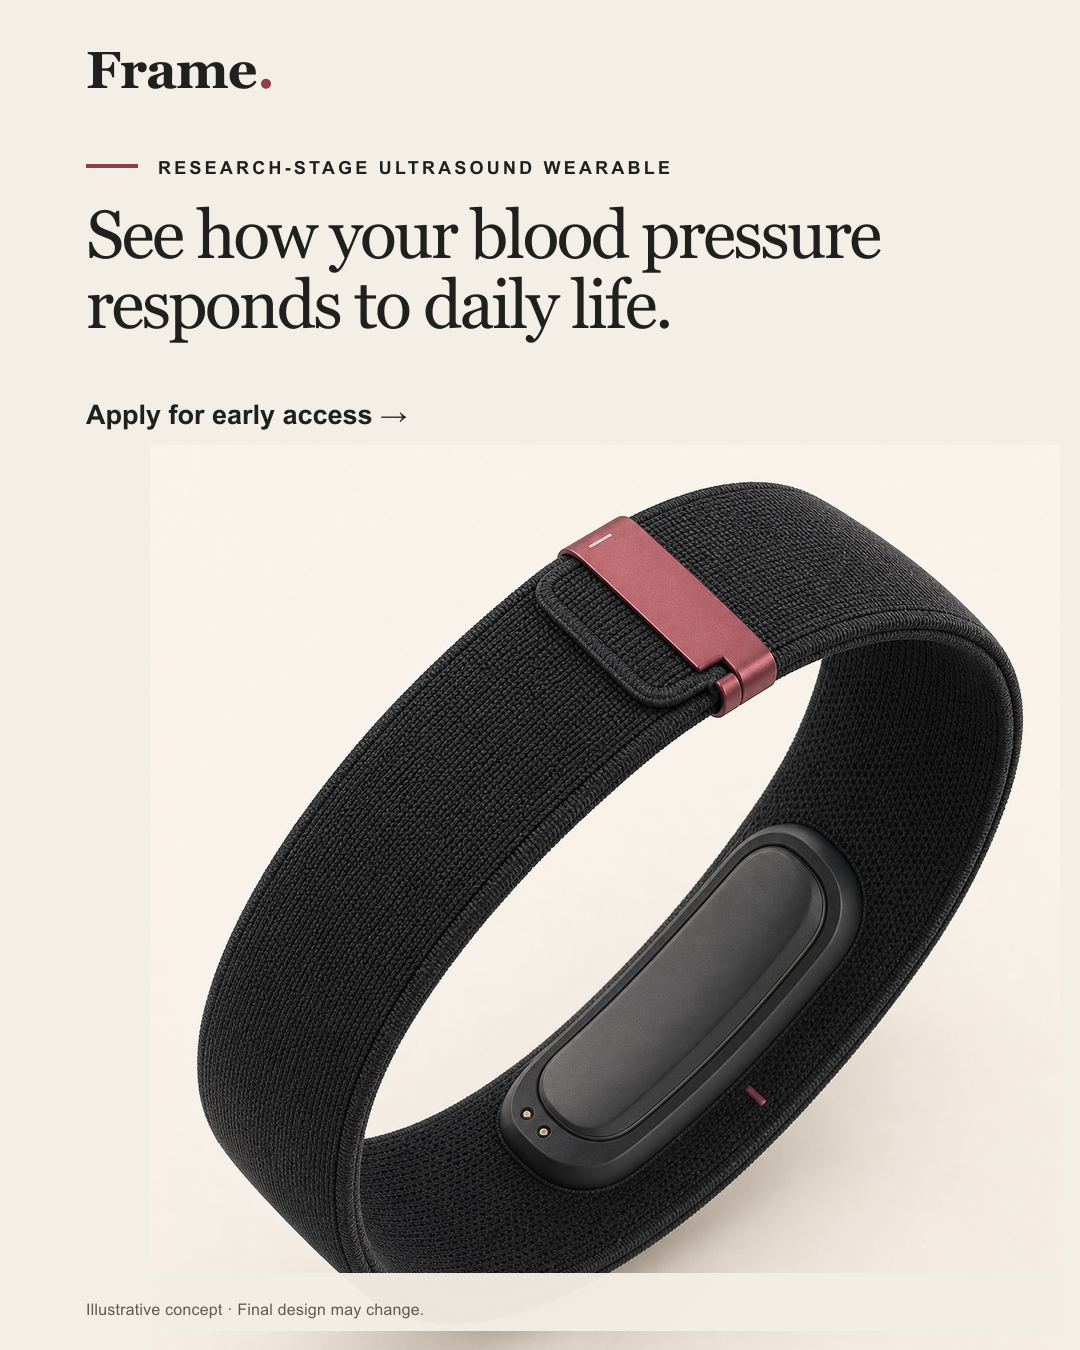
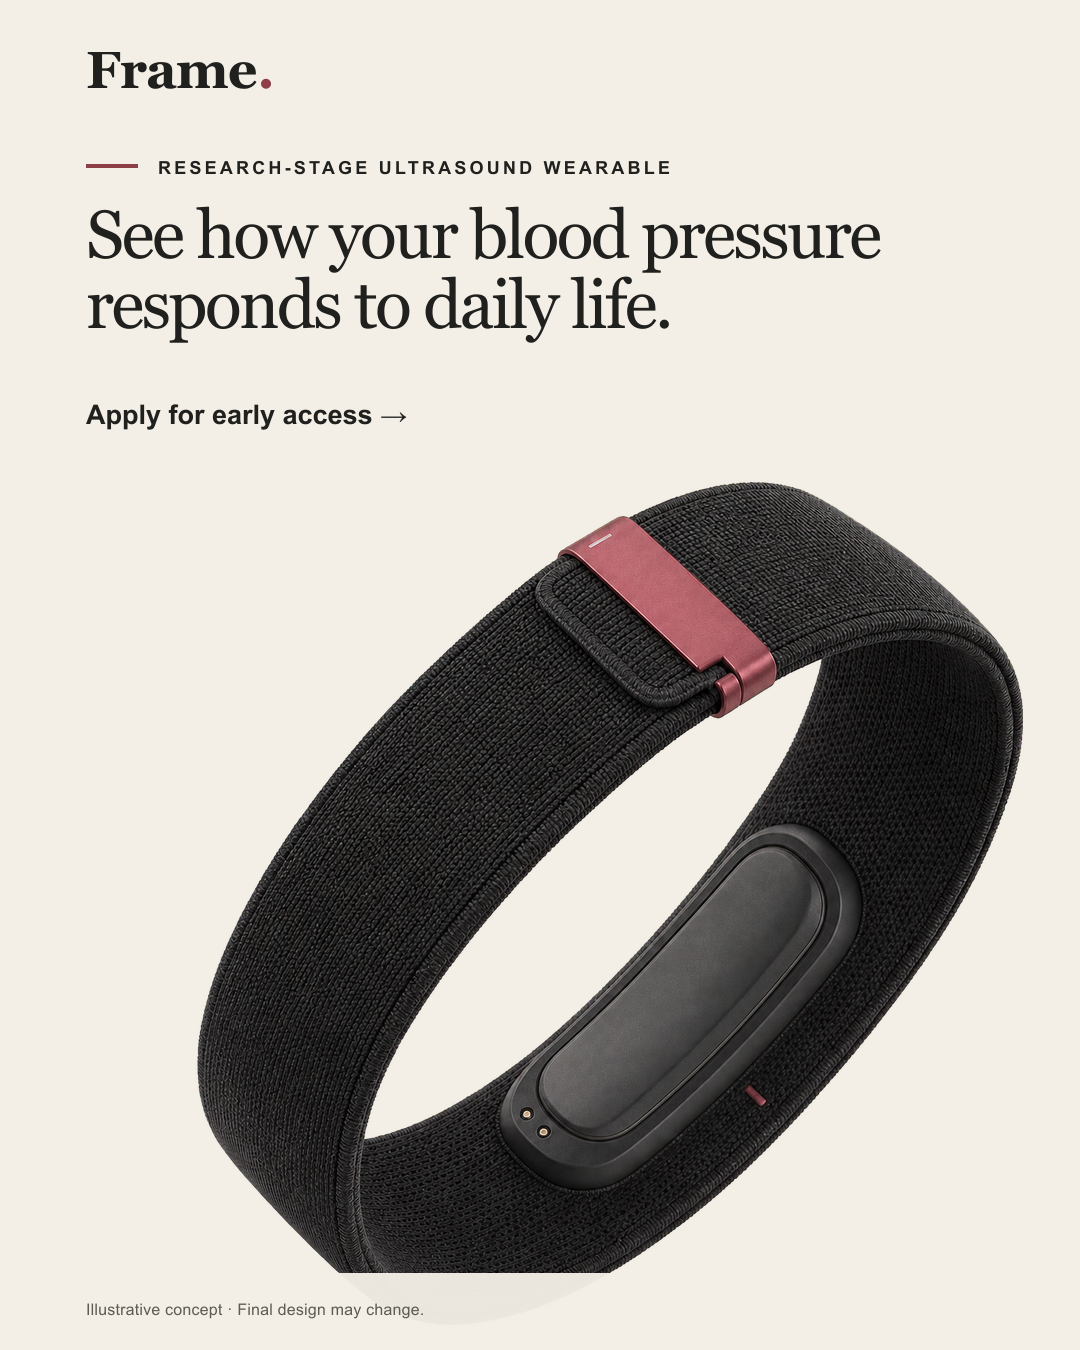
Use transparent Frame product cutout

diff --git a/app/page.tsx b/app/page.tsx
@@ -533,7 +533,7 @@ export default function Home() {
           </div>
           <figure className="hero-image image-frame">
             <Image
-              src="/frame-product-concept-realistic-v2.png"
+              src="/frame-product-concept-realistic-v3-transparent.png"
               alt="Refined Frame upper-arm wearable concept with an adjustable charcoal knit band, burgundy clasp, and integrated ultrasound sensor"
               className="cover-image"
               fill

diff --git a/public/social/frame-ad-creative-guide-v2.md b/public/social/frame-ad-creative-guide-v2.md
@@ -4,7 +4,7 @@ Use the refined Frame V2 industrial design for every new paid-social creative.
 
 ## Canonical product design
 
-- Product render: `../frame-product-concept-realistic-v2.png`
+- Transparent product render: `../frame-product-concept-realistic-v3-transparent.png`
 - On-arm reference: `../frame-on-arm-concept-realistic-v2.png`
 - Sensing reference: `../frame-sensing-concept-realistic-v2.png`
 
